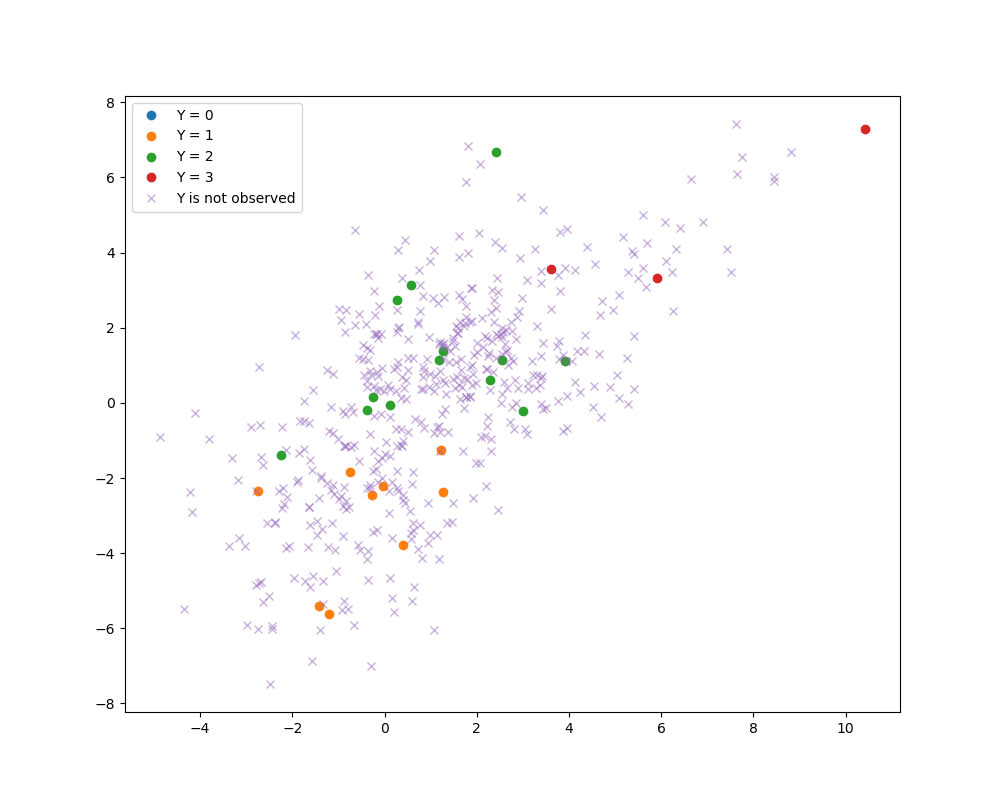
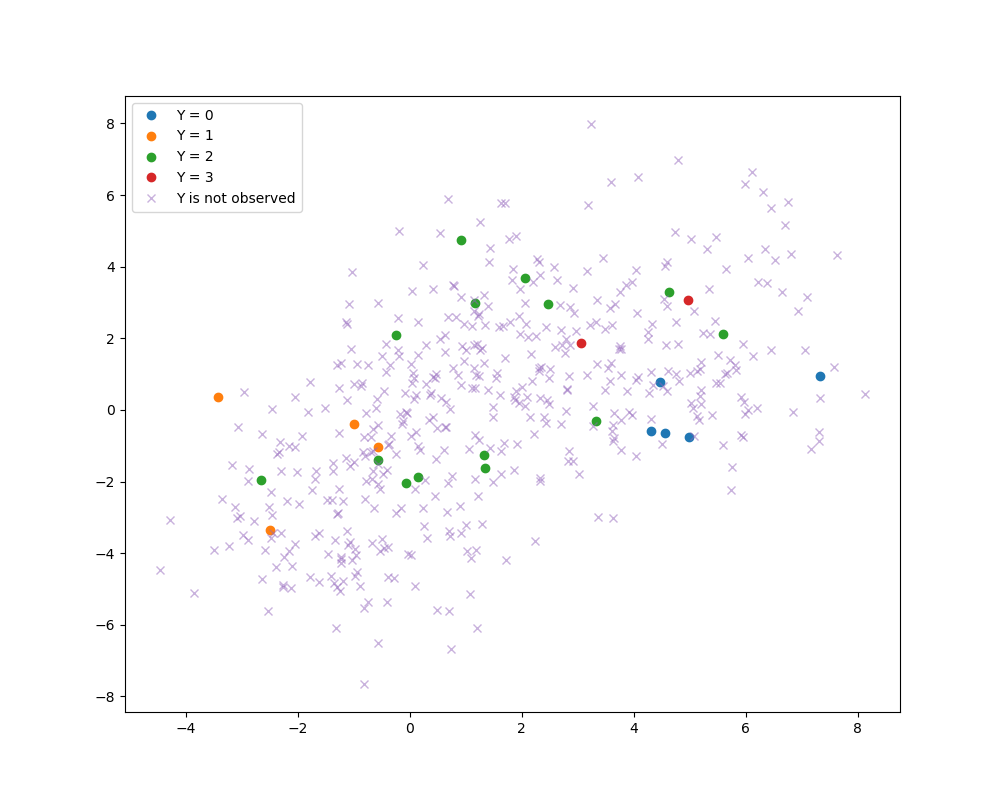
First pass at EM with Y MCAR

diff --git a/simulation.py b/simulation.py
@@ -1,6 +1,104 @@
 import numpy as np
 import matplotlib.pyplot as plt
 import pandas as pd
+from scipy.stats import multivariate_normal
+
+
+def update_params_hat(df, pr_y_given_x):
+
+    n_classes = pr_y_given_x.shape[1]
+
+    params_hat = {
+        "n_classes": n_classes,
+        "pr_y": pr_y_given_x.mean(axis=0),
+        "mu_x": [],
+        "vcov_x": [],
+    }
+
+    for c in range(n_classes):
+
+        params_hat["mu_x"].append(
+            np.average(df[["x1", "x2"]], weights=pr_y_given_x[:, c], axis=0)
+        )
+
+        # TODO Make sure this is correct, check ddof
+        params_hat["vcov_x"].append(
+            np.cov(df[["x1", "x2"]], rowvar=False, aweights=pr_y_given_x[:, c])
+        )
+
+    return params_hat
+
+
+def calculate_pr_y_given_x(df, params_hat):
+
+    n_obs = df.shape[0]
+
+    # Could also get this from len(params_hat["pr_y"])
+    n_classes = params_hat["n_classes"]
+
+    multivariate_normals = [
+        multivariate_normal(mean=params_hat["mu_x"][c], cov=params_hat["vcov_x"][c])
+        for c in range(n_classes)
+    ]
+
+    pr_y_given_x = np.zeros((n_obs, n_classes))
+    for i in range(n_obs):
+        observed_class = df["observed_y"].iloc[i]
+
+        if not np.isnan(observed_class):
+
+            # We are absolutely certain of Y for this observation (it is observed)
+            pr_y_given_x[i, int(observed_class)] = 1.0
+
+        else:
+
+            # Y is not observed, we need to calculate Pr[ Y | X ]
+            observed_x = df[["x1", "x2"]].iloc[i]
+            priors_times_densities = np.zeros((n_classes,))
+            for c in range(n_classes):
+                priors_times_densities[c] = params_hat["pr_y"][
+                    c
+                ] * multivariate_normals[c].pdf(observed_x)
+
+            pr_y_given_x[i, :] = priors_times_densities / np.sum(priors_times_densities)
+
+    # Sanity check
+    assert np.isclose(pr_y_given_x.sum(), n_obs)
+
+    return pr_y_given_x
+
+
+def run_expectation_maximization(df, n_classes, max_iter=20):
+
+    # TODO Randomize initial values of mu_x?
+    # Try multiple random starting values, return best likelihood
+    # Note that [0, 0] and n=2 both hardcode the dimension of the predictors ["x1", "x2"]
+    params_hat = {
+        "pr_y": [
+            1 / n_classes,
+        ]
+        * n_classes,
+        "mu_x": [
+            [0, 0],
+        ]
+        * n_classes,
+        "vcov_x": [
+            np.identity(n=2),
+        ]
+        * n_classes,
+        "n_classes": n_classes,
+    }
+
+    for iter_idx in range(max_iter):
+        print(f"EM iteration {iter_idx}")
+
+        ## E step: update pr_y_given_x
+        pr_y_given_x = calculate_pr_y_given_x(df, params_hat)
+
+        ## M step: update params_hat
+        params_hat = update_params_hat(df, pr_y_given_x)
+
+    return params_hat
 
 
 def simulate_x(df, mu_x, vcov_x, n_classes):
@@ -52,10 +150,12 @@ def simulate(
 
 def main():
 
+    # TODO Set np random seed
+
     # Entry i is the mean of X conditional on Y==i
     # The predictors X are in R^2
     mu_x = [
-        [2.5, 1],
+        [4.5, 0.5],
         [-1, -3],
         [1, 1],
         [5, 4],
@@ -123,6 +223,41 @@ def main():
     ax.legend()
     plt.savefig("plot_simulation_x_and_observed_y.png")
     plt.clf()
+
+    # EM is not allowed to use true_y
+    # It only sees observed_y (which contains many NaNs)
+    params_hat = run_expectation_maximization(
+        df=df_train[["x1", "x2", "observed_y"]], n_classes=len(pr_y), max_iter=30
+    )
+
+    fig, ax = plt.subplots(figsize=(10, 8))
+    # TODO Could be fun to have a similar plot showing path of EM params_hat over time (iteration by iteration)
+    for c in range(params_hat["n_classes"]):
+        color = next(ax._get_lines.prop_cycler)["color"]
+        plt.plot(
+            mu_x[c][0],
+            mu_x[c][1],
+            marker="s",
+            linestyle="",
+            label=f"true E[ X | Y = {c}]",
+            color=color,
+        )
+        plt.plot(
+            params_hat["mu_x"][c][0],
+            params_hat["mu_x"][c][1],
+            marker="+",
+            linestyle="",
+            label=f"estimated E[ X | Y = {c}]",
+            color=color,
+        )
+
+    ax.legend()
+    plt.savefig("plot_mu_x_true_and_estimated.png")
+    plt.clf()
+
+    # TODO Also plot Pr[ Y | X ], or plot gaussian ellipses around E[ X | Y ] to visualize estimated vcov matrices
+
+    # TODO Evaluate model on a test set
 
 
 if __name__ == "__main__":

diff --git a/README.md b/README.md
@@ -1,5 +1,11 @@
 # semi_supervised_gmm
 
+Related:
+ - https://www.cs.ubc.ca/~schmidtm/Courses/540-W16/EM.pdf
+ - https://www.cs.cmu.edu/~epxing/Class/10708-15/notes/10708_scribe_lecture8.pdf
+
 ![True Y](plot_simulation_x_and_true_y.png)
 
 ![Observed Y](plot_simulation_x_and_observed_y.png)
+
+![Mean of X given Y](plot_mu_x_true_and_estimated.png)
